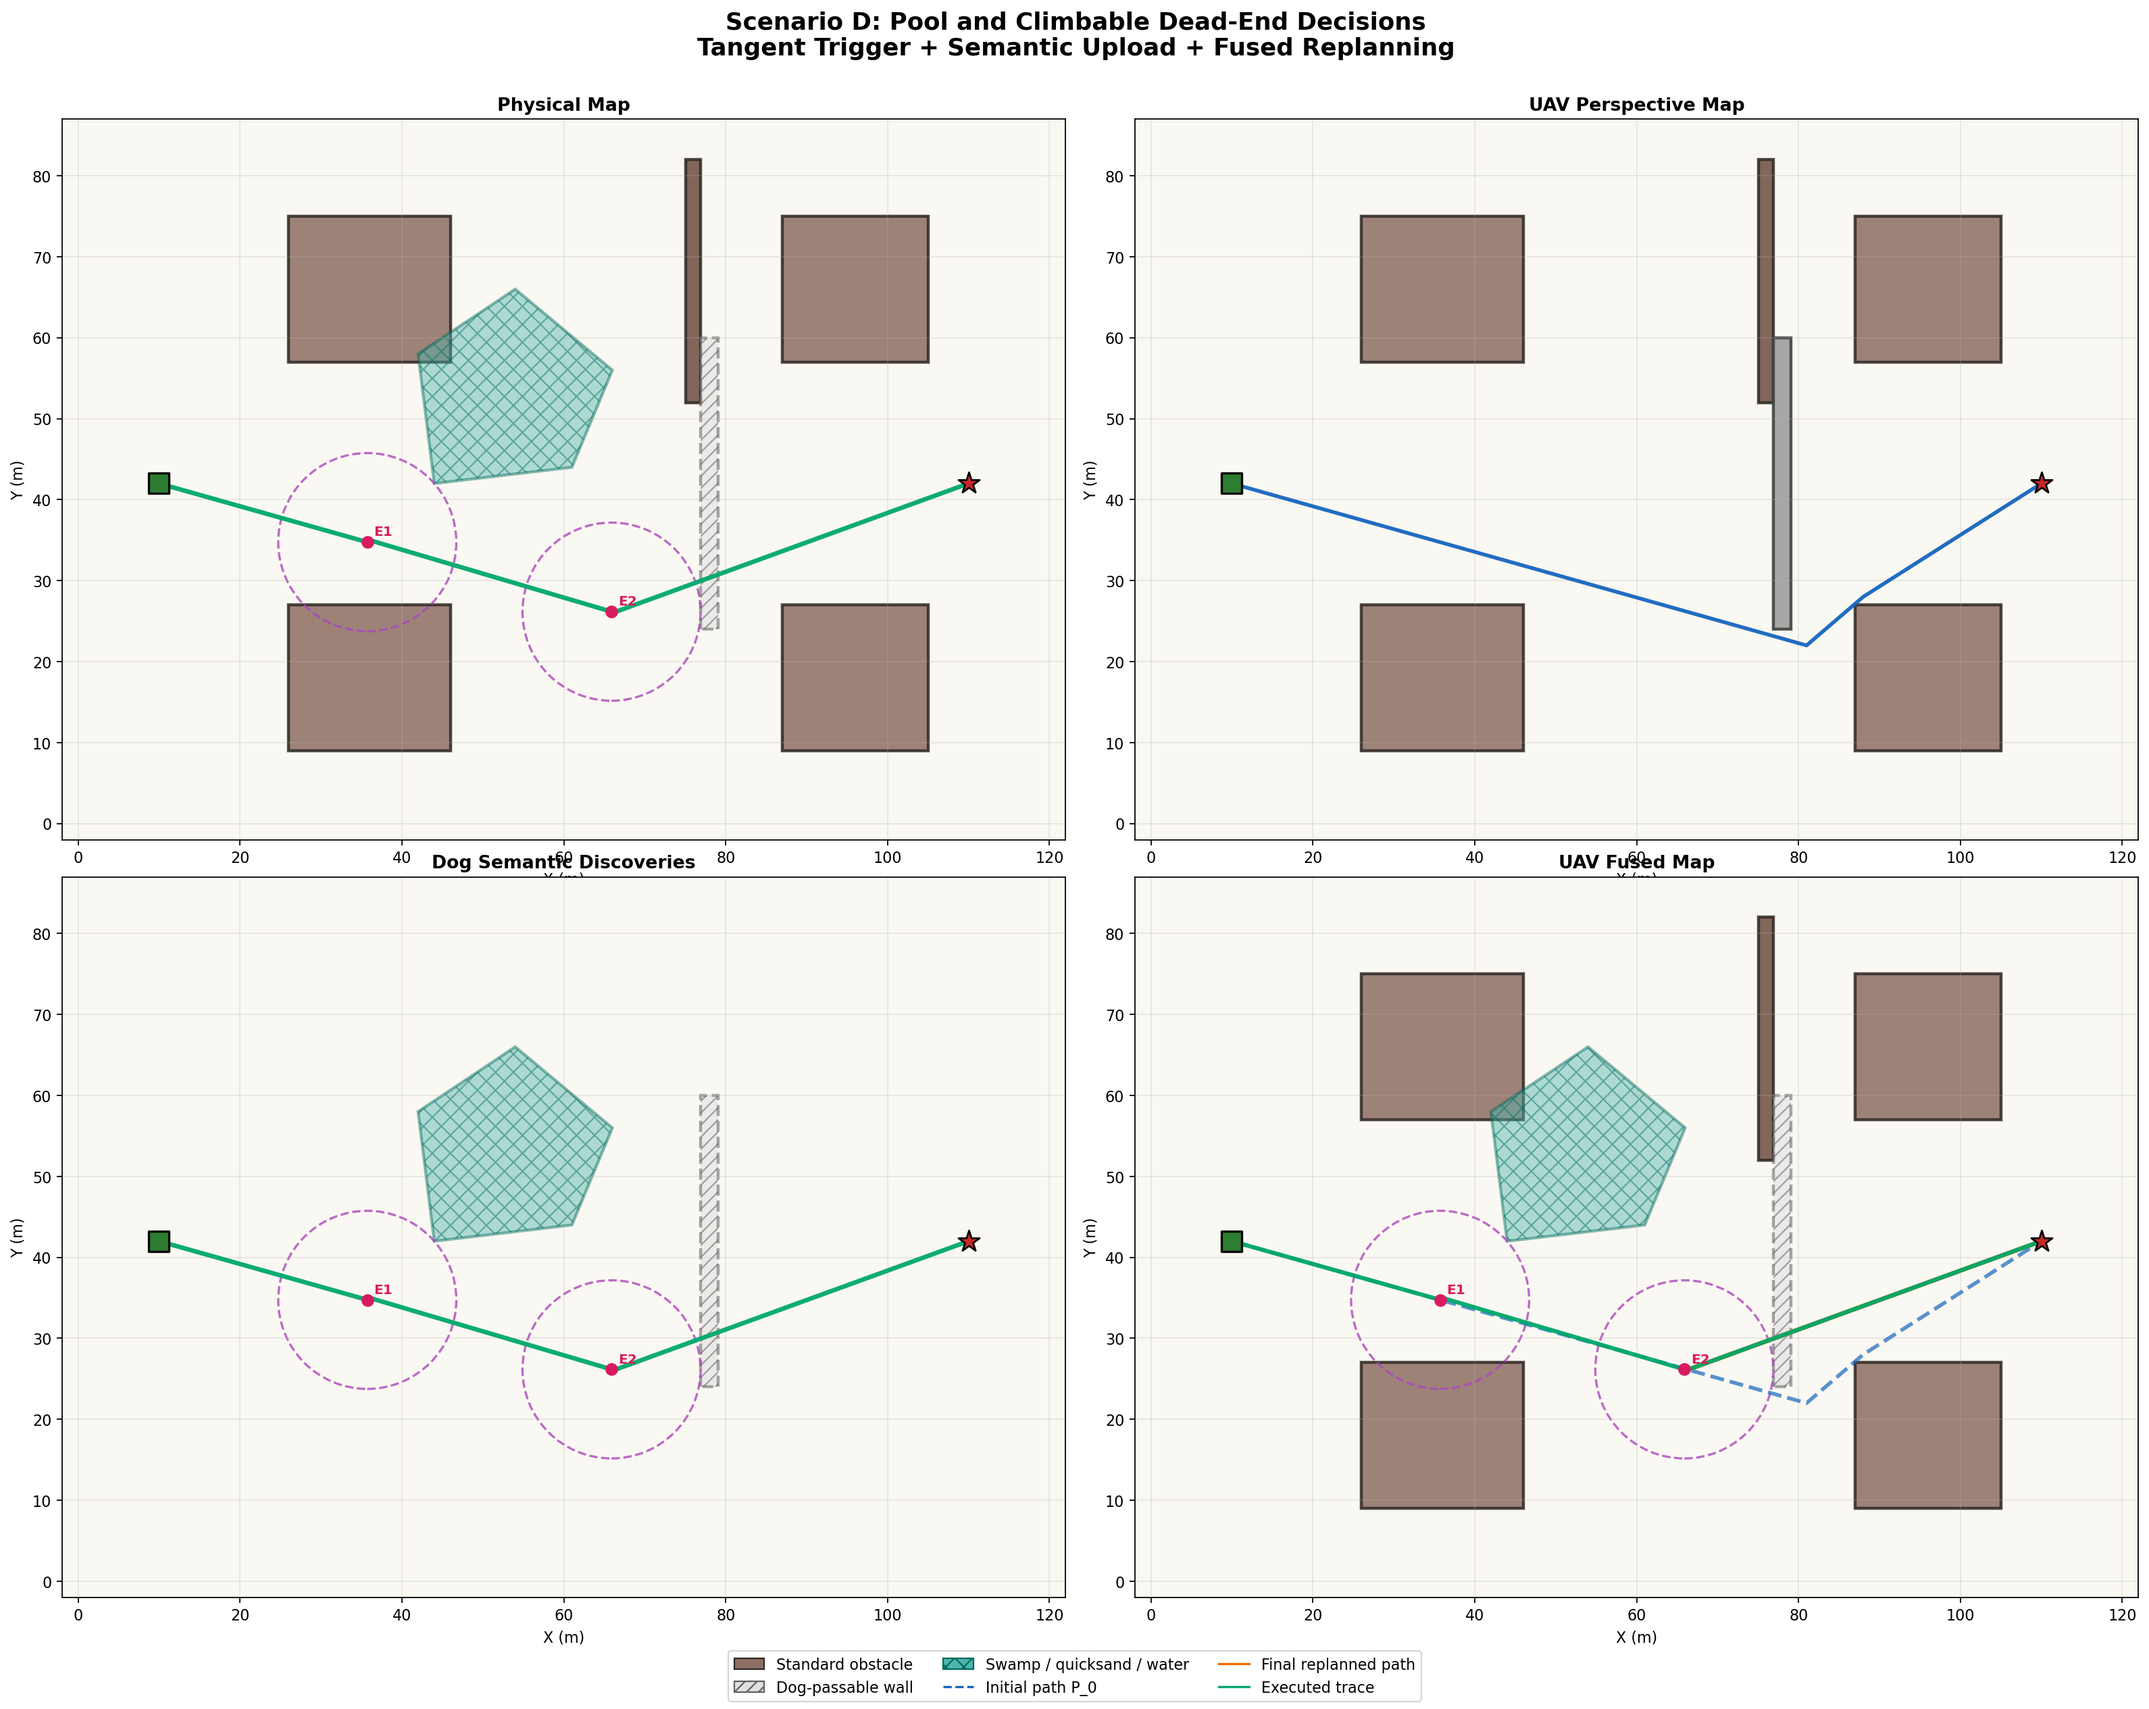
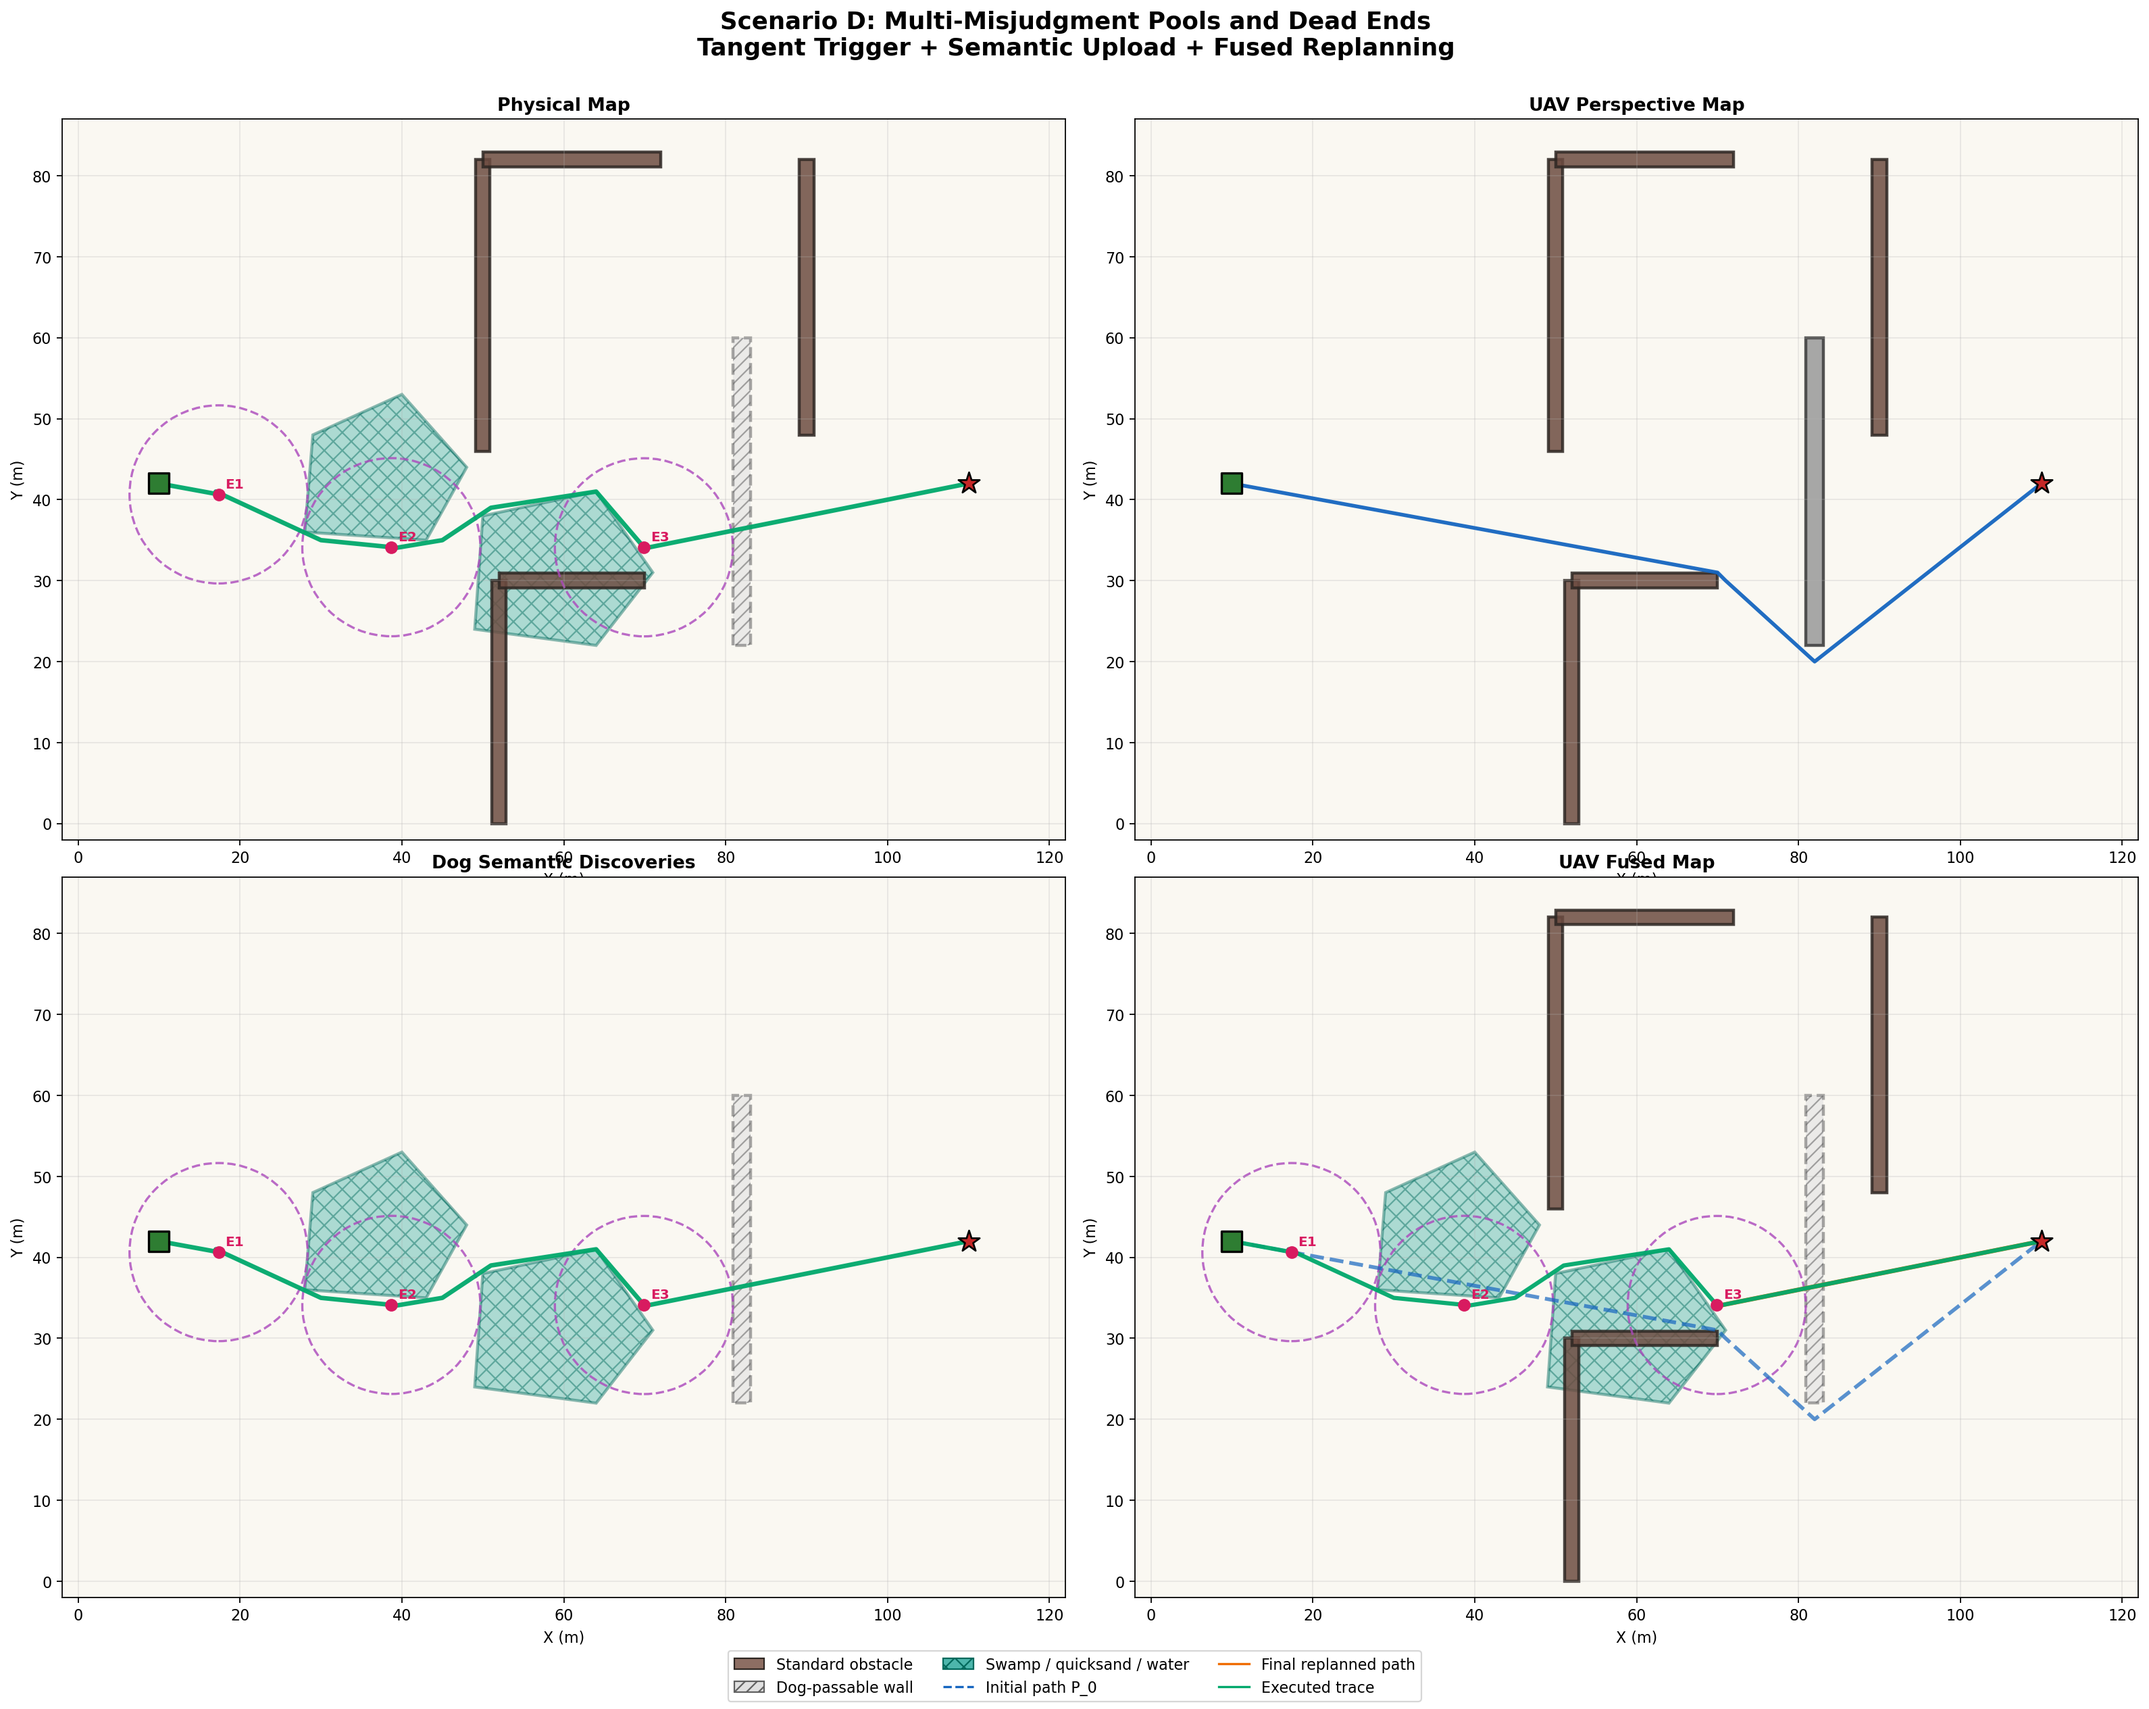
feat: expand scenario d into multi-misjudgment case

diff --git a/simulation/README.md b/simulation/README.md
@@ -48,11 +48,12 @@
 | `visualization/comparison.py` | 独立场景可视化工具 |
 | `config/scenarios/*.json` | 仿真场景配置 |
 
-其中 `config/scenarios/scenario_d_decision_complexity.json` 是新增的“决策复杂度优先”场景：
+其中 `config/scenarios/scenario_d_decision_complexity.json` 是新增的“多次误判 / 决策复杂度优先”场景：
 
-- 水池会被 UAV 误判为可通行地面
-- 死胡同式末端墙体里包含可翻越墙
-- 障碍数量不多，但会触发“先避水池、再识别可翻越墙”的连续决策修正
+- 多个水池会被 UAV 误判为可通行地面
+- 多个死胡同墙体共同制造绕行和假通路
+- 只有一个死胡同式墙体最终会被机器狗识别为可翻越
+- 大型矩形障碍被尽量减少，重点放在连续误判与重规划链条上
 
 ## 运行方式
 
